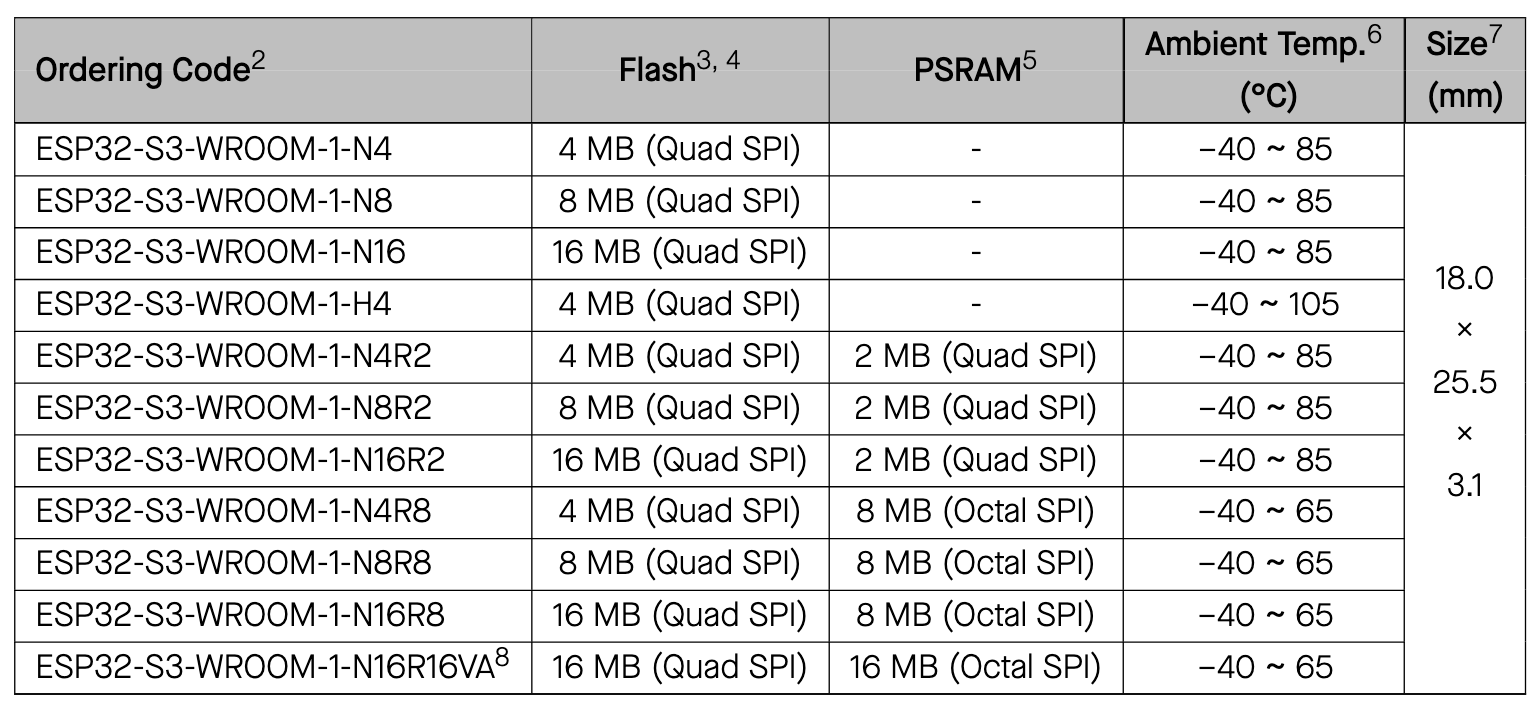
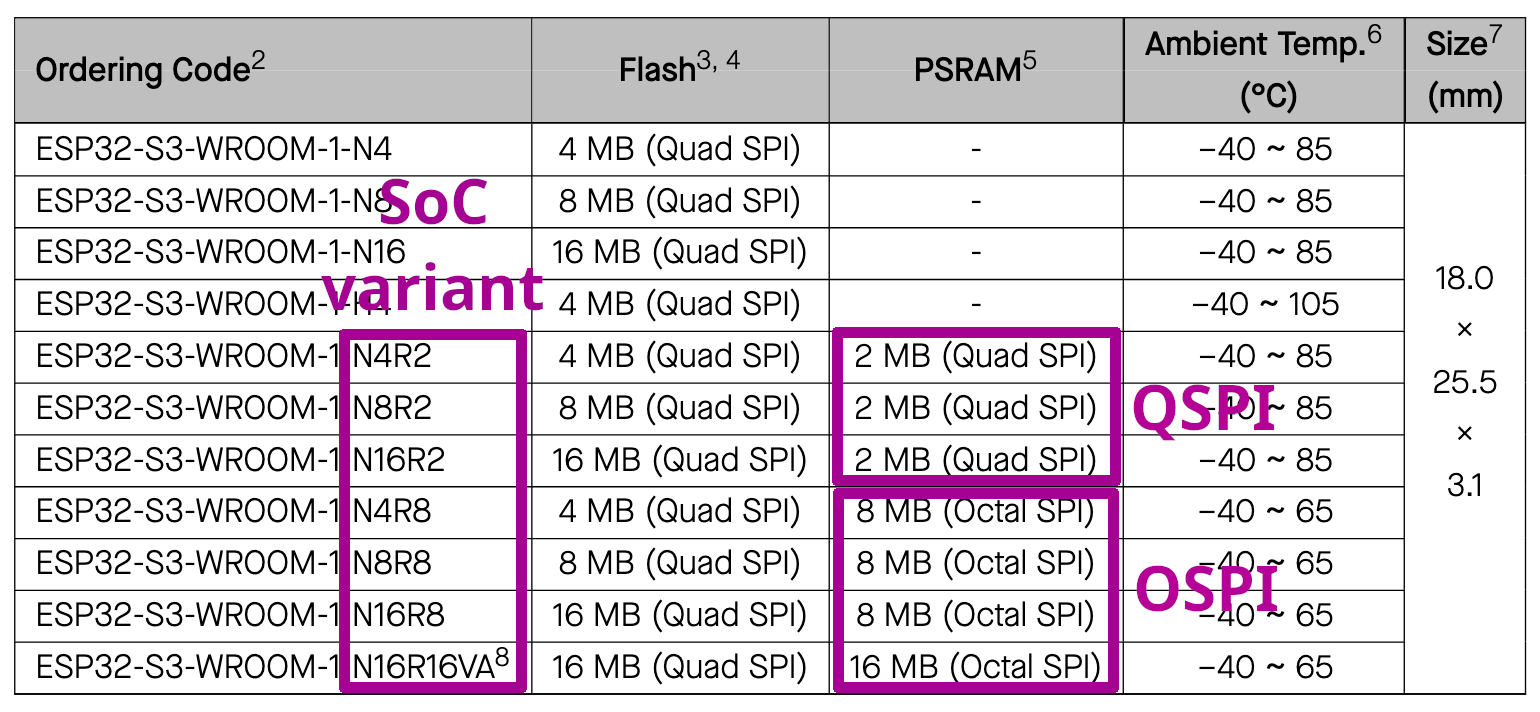
Better explanation of QSPI vs OSPI

diff --git a/docs/source/flash.md b/docs/source/flash.md
@@ -13,7 +13,7 @@ The firmware releases are available on [GitHub](https://github.com/esp32-si4732/
 
 ![](_static/esp32-psram-variants.png)
 
-With the right firmware variant you should see a non-zero PSRAM amount on the Settings->About system info screen.
+With the right firmware variant you should see a non-zero PSRAM amount on the Settings->About system info screen. Also check out the following discussion: [OSPI vs QSPI: How can I see what I have?](https://github.com/esp32-si4732/ats-mini/discussions/174).
 ```
 
 A firmware archive contains the following files:
